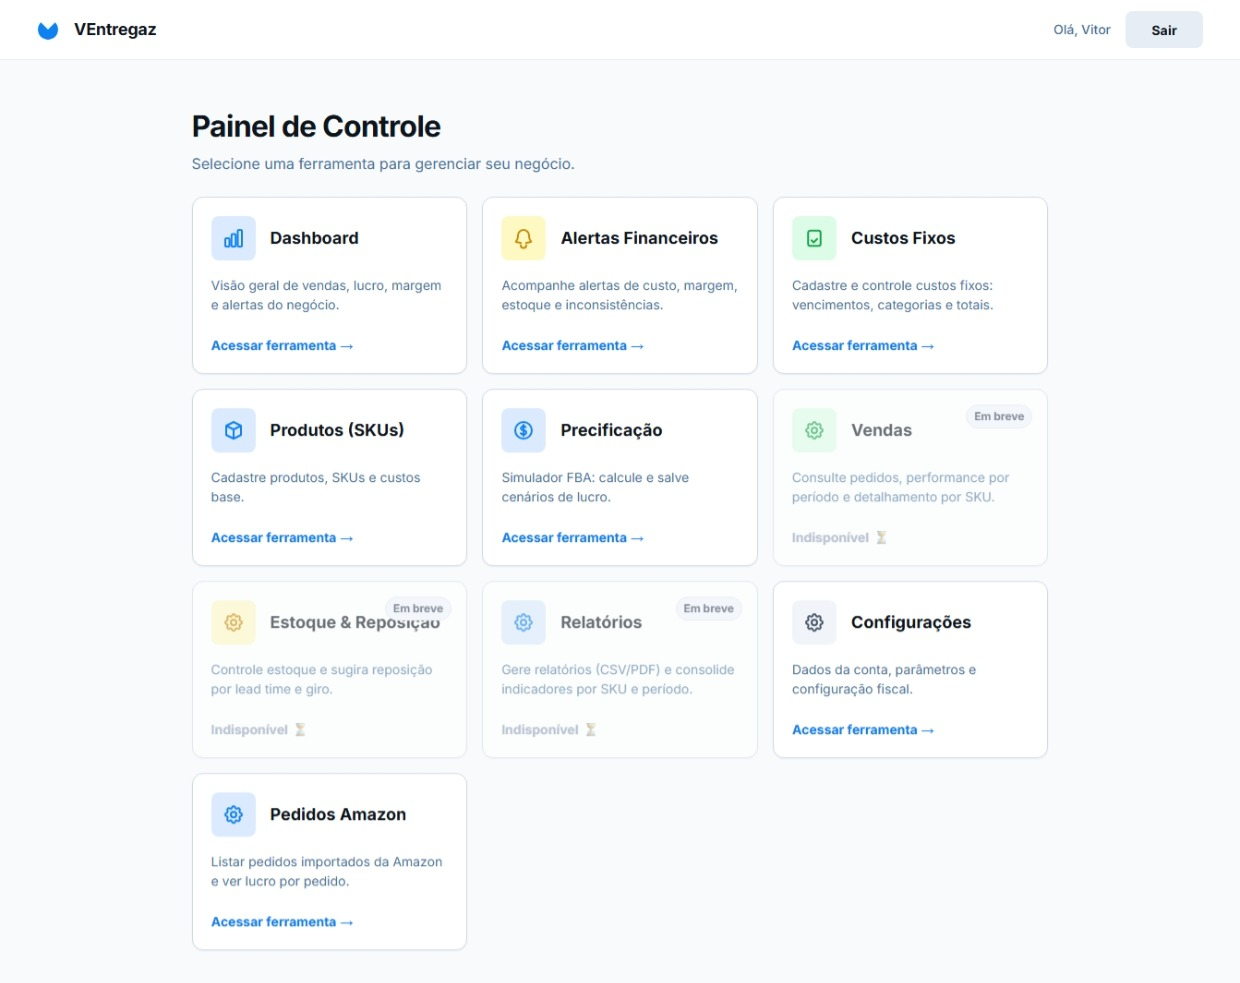
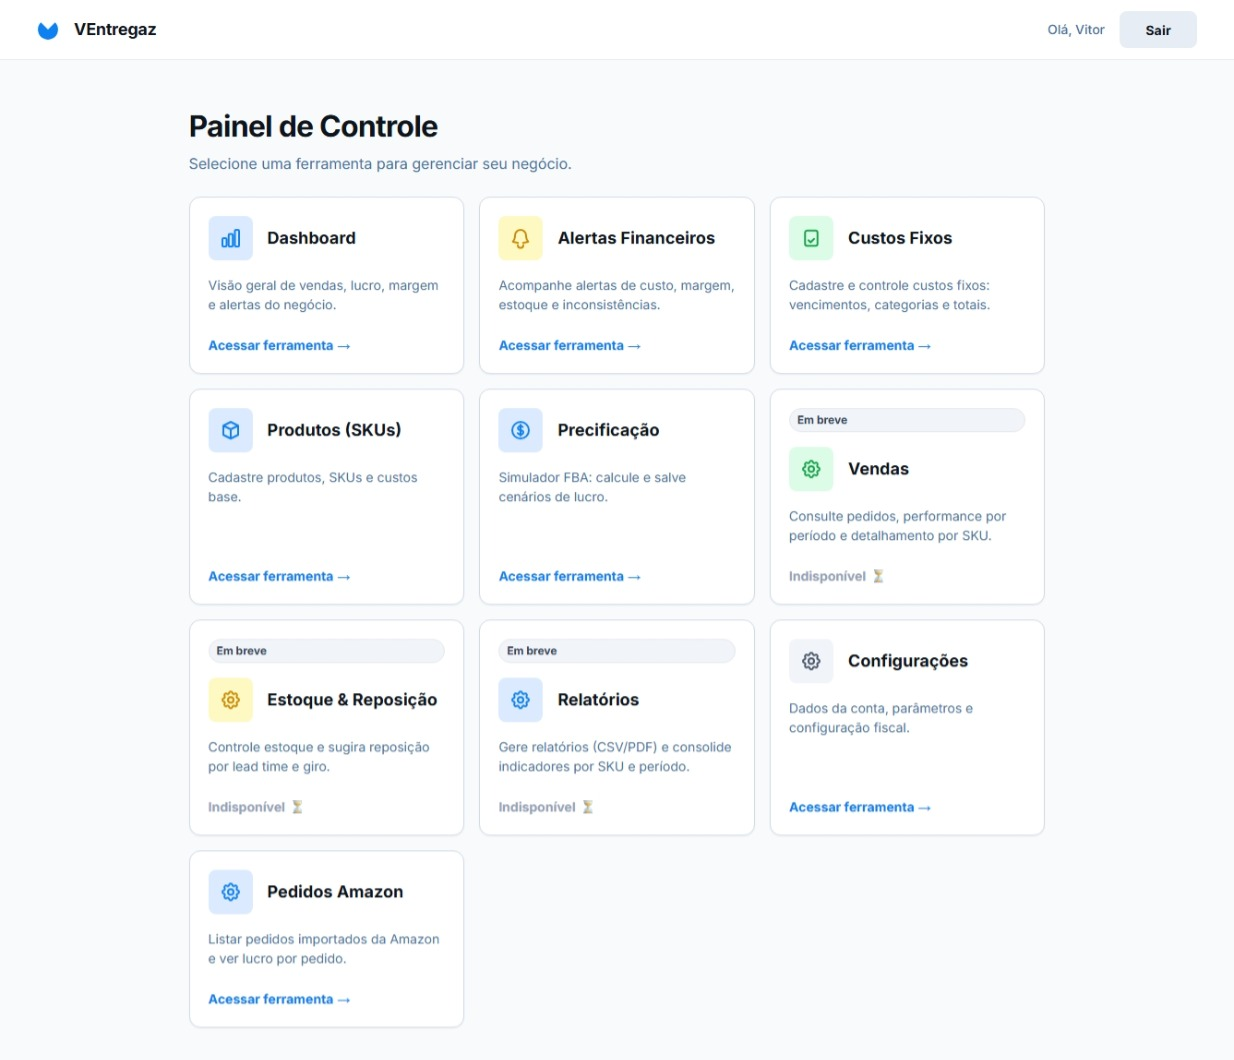
docs: adiciona 5 novos screenshots (menu atualizado, settings, custos fixos, alertas, pedidos amazon)
amazon_orders dividido em 2 imagens (visao geral + detalhe) por ser uma
tela longa com varios componentes.

diff --git a/README.md b/README.md
@@ -27,9 +27,9 @@ SaaS web application for Amazon marketplace sellers to manage products, simulate
 |--------------|---------------------|
 | ![Custos Fixos](docs/screenshots/custos_fixos.jpeg) | ![Alertas](docs/screenshots/alertas.jpeg) |
 
-| Integração Amazon — Pedidos |
-|-----------------------------|
-| ![Amazon Orders](docs/screenshots/amazon_orders.jpeg) |
+| Integração Amazon — Pedidos (visão geral) | Integração Amazon — Pedidos (detalhe) |
+|--------------------------------------------|----------------------------------------|
+| ![Amazon Orders 1](docs/screenshots/amazon_orders1.png) | ![Amazon Orders 2](docs/screenshots/amazon_orders2.png) |
 
 ---
 